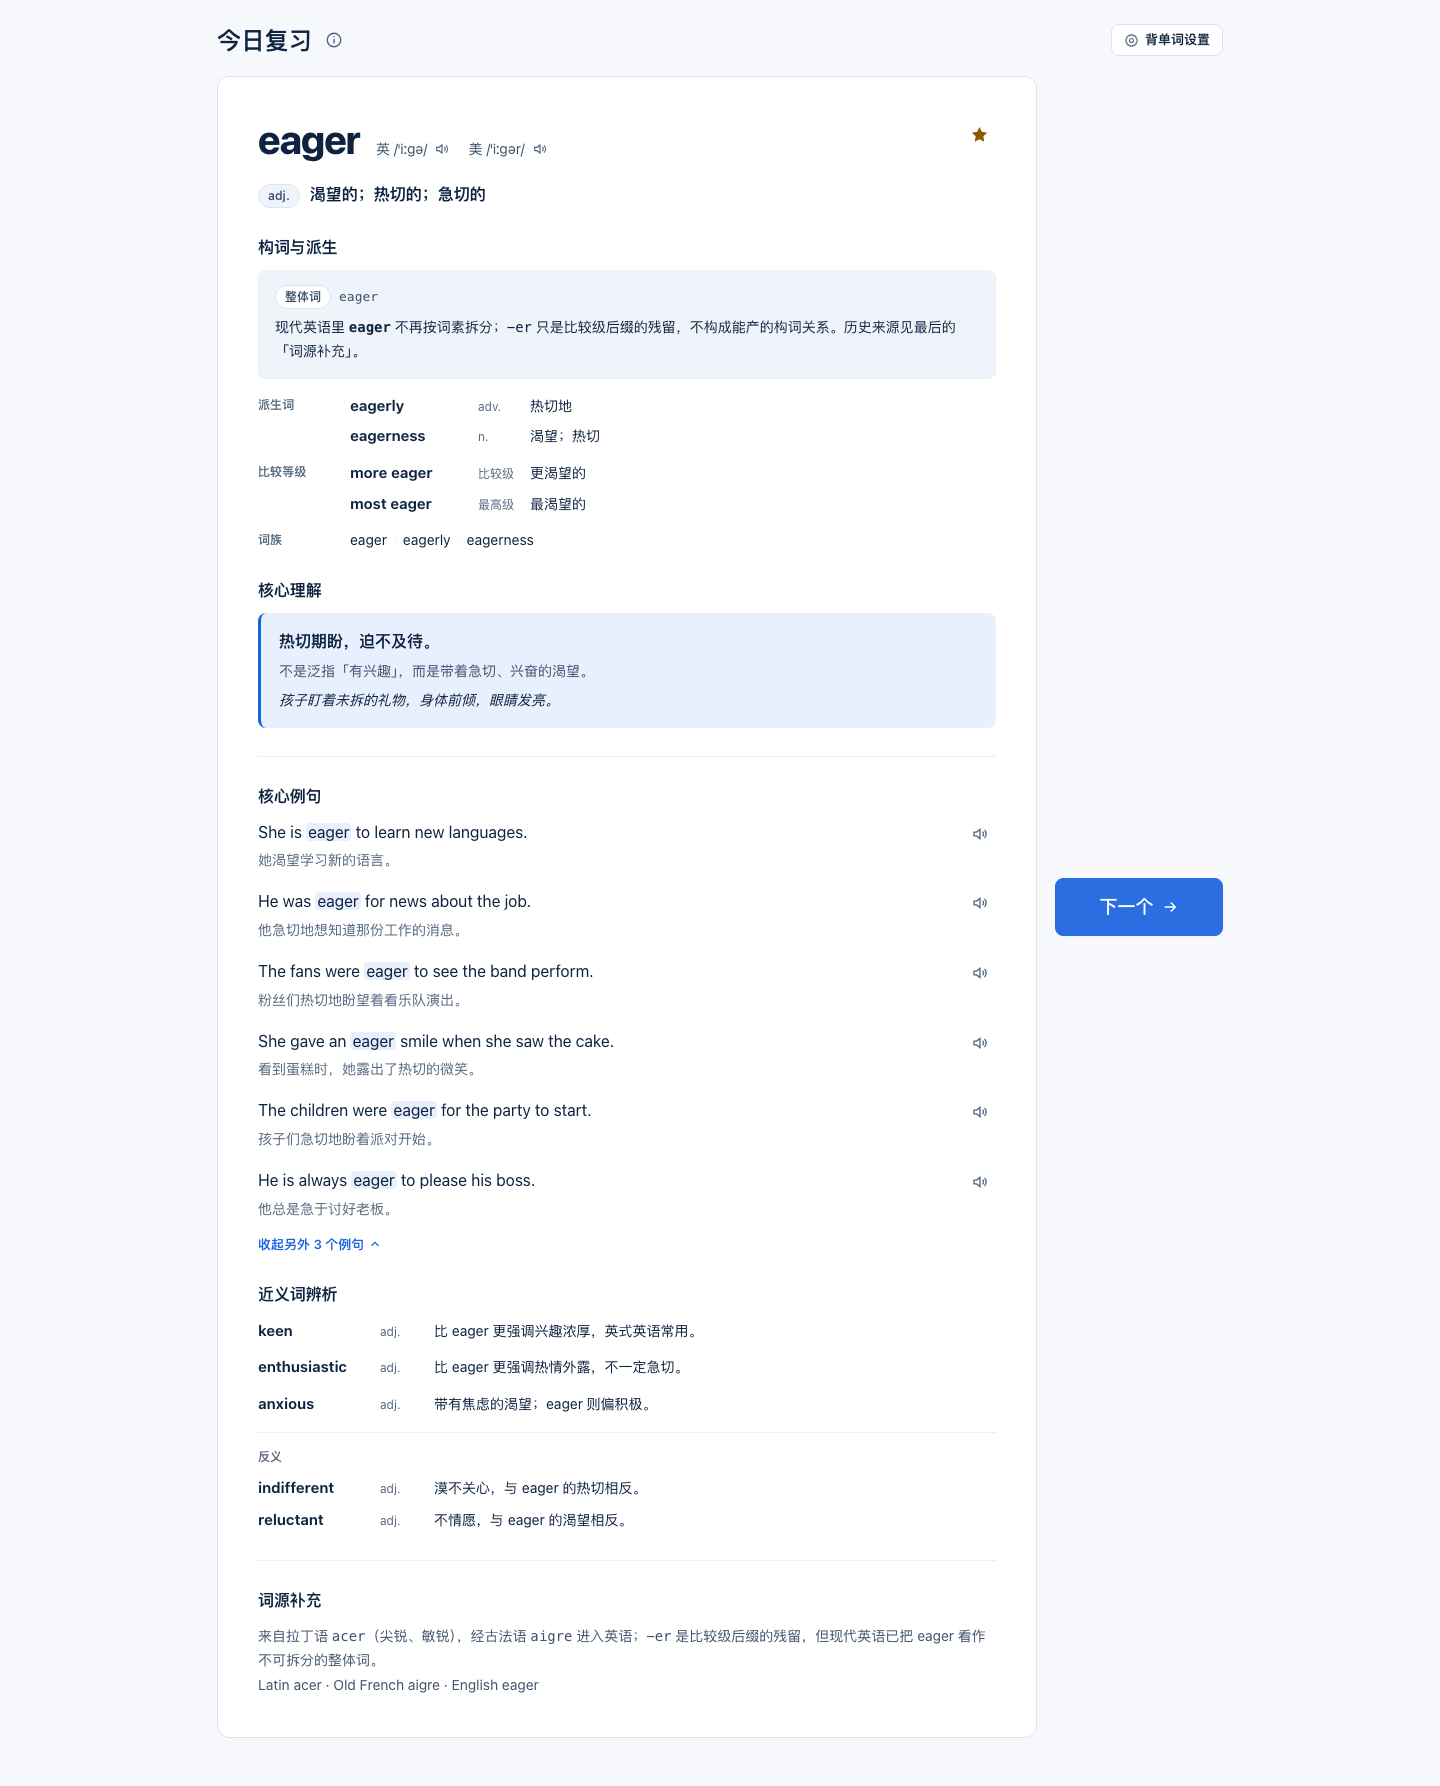
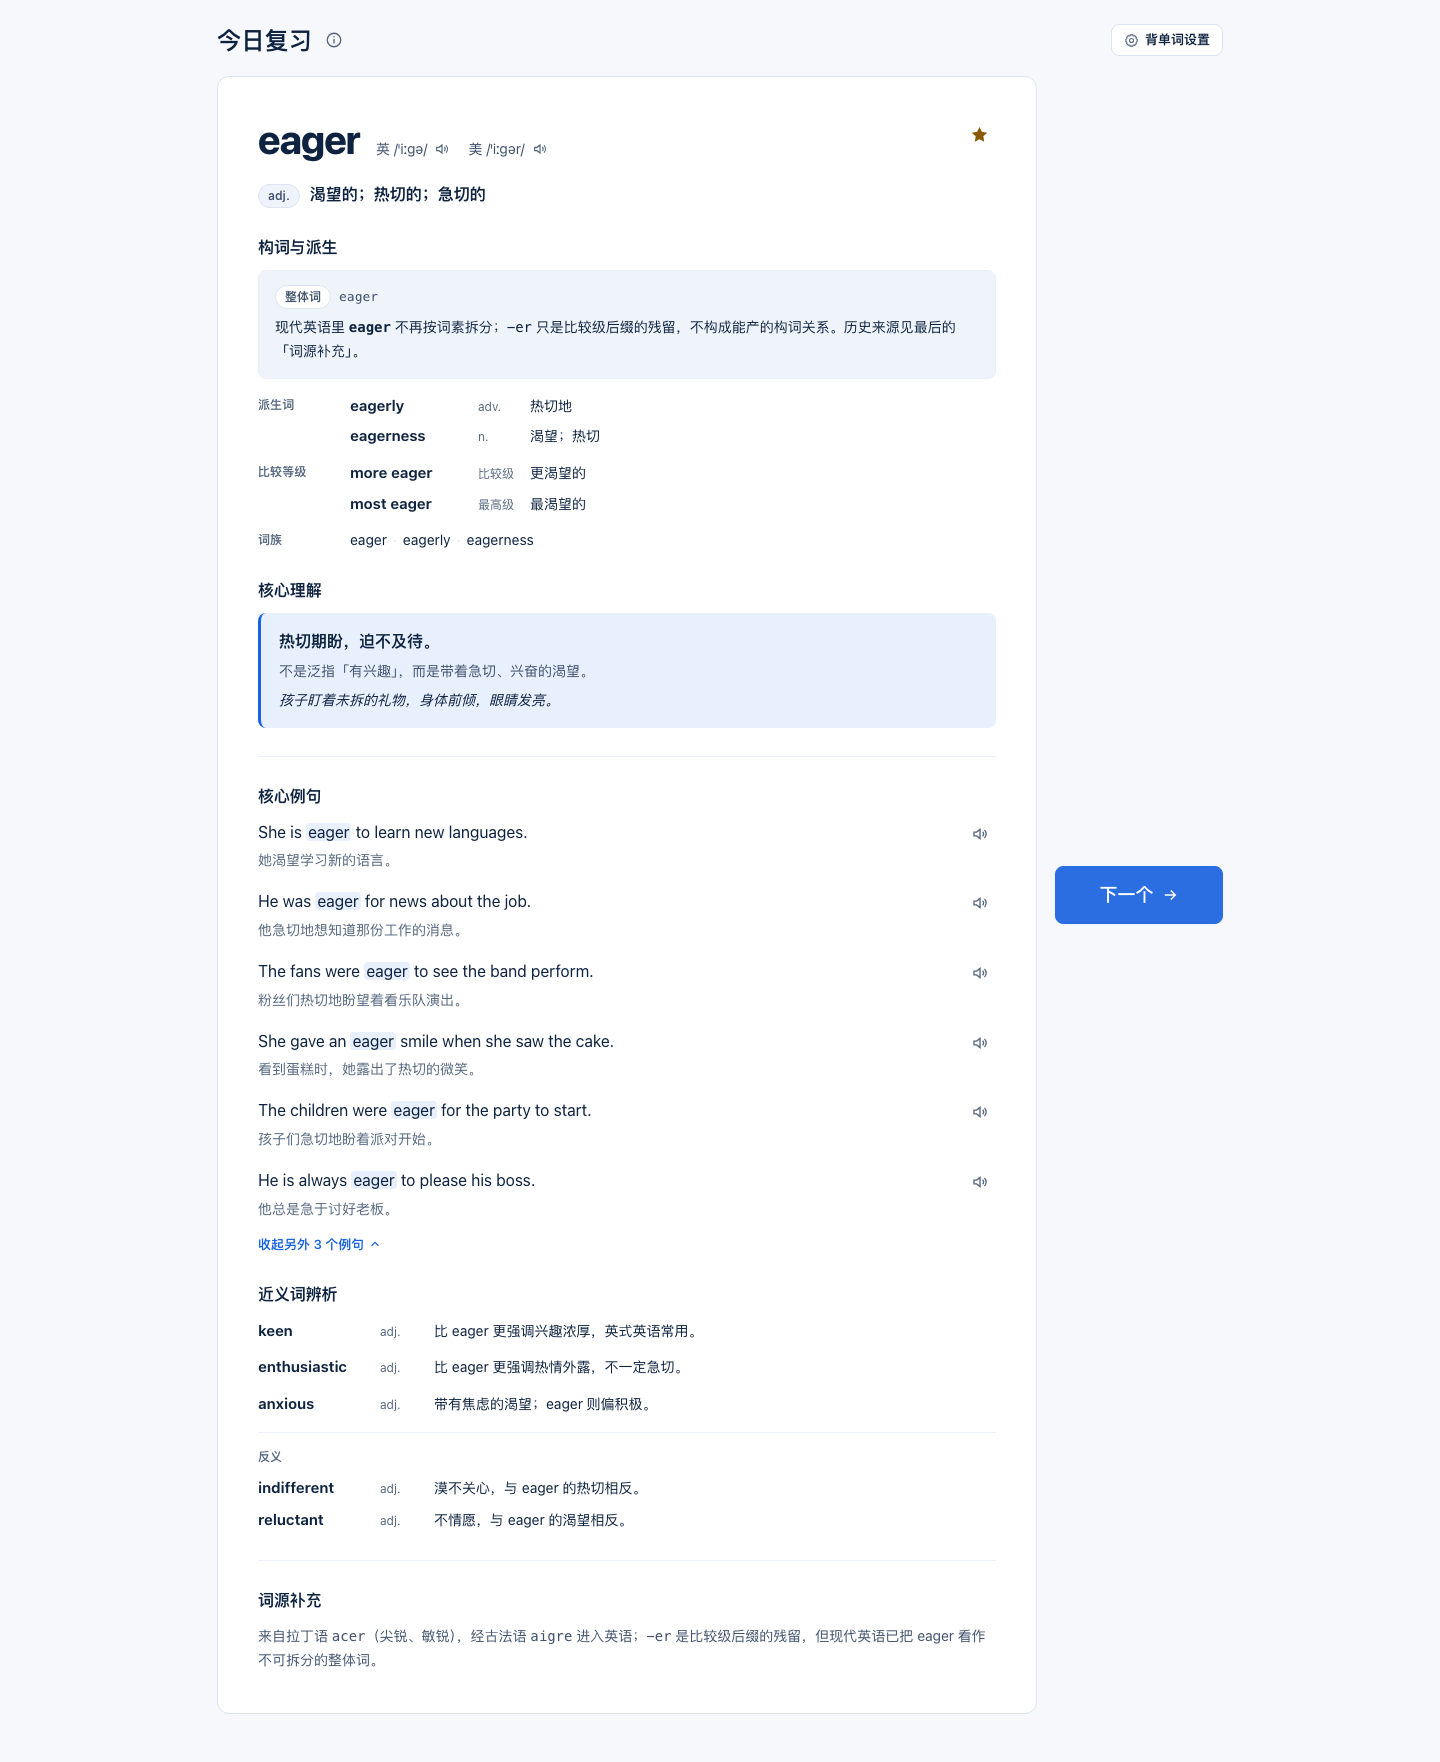
fix(mock): 去掉卡面不可读的裸词源链，词源只保留中文解释

diff --git a/docs/mock/vocab-card-v1-2026-10-31/index.html b/docs/mock/vocab-card-v1-2026-10-31/index.html
@@ -368,7 +368,6 @@
 
   /* 词源 */
   .etymology p { margin: 0; font-size: 14px; line-height: 1.75; color: var(--muted); }
-  .etym-source { margin-top: 8px; font-size: 12px; color: var(--muted-2); }
 
   /* 卡片正面 */
   .front { display: flex; flex-direction: column; align-items: center; gap: 8px; }
@@ -745,7 +744,6 @@
           <section class="section section--divided etymology" aria-labelledby="etymTitle">
             <h2 id="etymTitle">词源补充</h2>
             <p>来自拉丁语 <span class="mono">acer</span>（尖锐、敏锐），经古法语 <span class="mono">aigre</span> 进入英语；<span class="mono">-er</span> 是比较级后缀的残留，但现代英语已把 eager 看作不可拆分的整体词。</p>
-            <p class="etym-source">Latin acer · Old French aigre · English eager</p>
           </section>
         </div>
 

diff --git a/docs/mock/vocab-card-v1-2026-10-31/README.md b/docs/mock/vocab-card-v1-2026-10-31/README.md
@@ -64,13 +64,13 @@ const CARD_BLOCKS = ['senses', 'morphology', 'core', 'examples', 'synonyms', 'et
  "antonyms": [{"word": "indifferent", "pos": "adj.", "nuance": "漠不关心，与 eager 的热切相反"}]}
 
 // id: "etymology"
-{"text": "来自拉丁语 acer（尖锐、敏锐），经古法语 aigre 进入英语；-er 是比较级后缀的残留。",
- "sources": ["Latin acer", "Old French aigre"]}
+{"text": "来自拉丁语 acer（尖锐、敏锐），经古法语 aigre 进入英语；-er 是比较级后缀的残留。"}
 ```
 
 内容规则：
 
 - **`morphology` 讲现代构词**；`etymology` 讲历史来源。两者不互相替代，也不重复同一句。
+- 词源用中文解释；`Latin acer` / `Old French aigre` 这类外语只做行内括注，**不在卡面单列裸词源链**（2026-10-31 用户反馈：那行没人看得懂）。
 - `parts` / `chain` 只在现代英语里站得住时才有值；整体借词（如 algorithm）允许为空，用 `modernNote` 说明「不强行拆分」。
 - `derivatives` 是派生（eagerly / eagerness），`inflections` 是屈折（more eager / algorithms），不能混。
 - 派生词最好带 `pos` + 简短 `meaning`；词族 `family` 只做去重后的词形集合。
